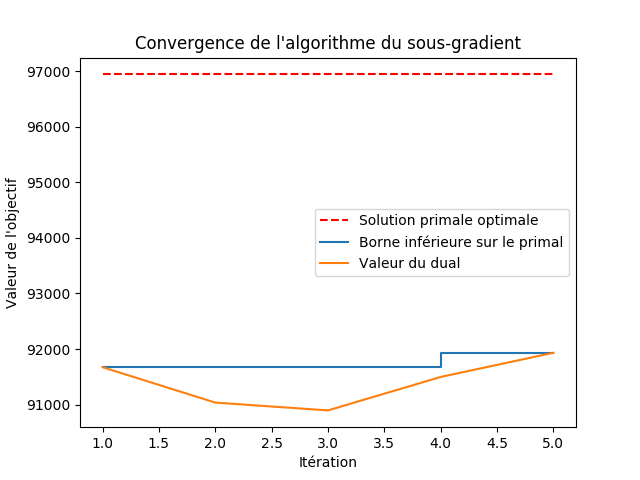
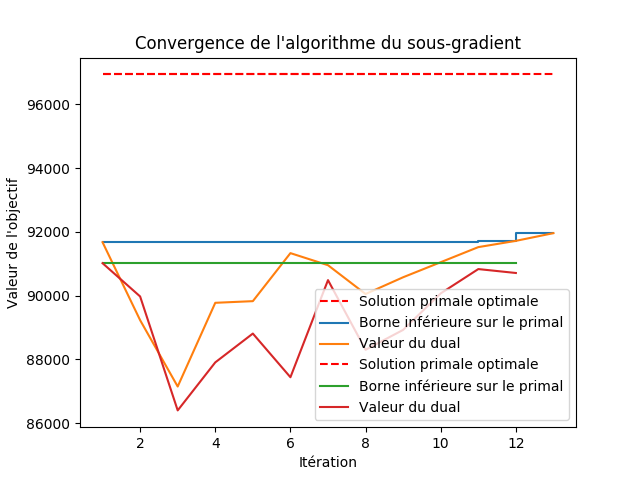
modifications sous-gradient

diff --git a/src/subgradient.py b/src/subgradient.py
@@ -31,7 +31,7 @@ def solve_subproblem(subproblem):
         assert(subproblem.status == pulp.constants.LpStatusOptimal)
 
 
-def solve_with_subgradient(instance, _lambda=0.01, _epsilon=0.1, _alpha0=2000.0, _rho=0.96, _nar=4):
+def solve_with_subgradient(instance, _lambda=0.01, _epsilon=0.01, _alpha0=5000.0, _rho=0.92, _nar=10):
     PI, Gs, K, S, C, P_plus = instance.get_attributes(["PI", "Gs", "K", "S", "C", "P_plus"])
     n_periods = instance.n_periods
     n_scenarios = instance.n_scenarios
@@ -78,6 +78,13 @@ def solve_with_subgradient(instance, _lambda=0.01, _epsilon=0.1, _alpha0=2000.0,
         z_k = z[Gs, :].get_var_values()[..., np.newaxis]
         
         if k > _nar:
+
+            betas = np.flip(1. / np.arange(1, len(primal_solutions)+1), 0)
+            betas /= betas.sum()
+            convex_comb = (betas * np.asarray(primal_solutions).T).sum(axis=1)
+
+            PP.set_var_values(convex_comb)
+
             evolve_and_fix(PP)
             n_violated, _ = PP.constraints_violated()
             if n_violated == 0:

diff --git a/src/main.py b/src/main.py
@@ -93,7 +93,7 @@ if __name__ == "__main__":
     
     folder = "../instances"
     for filename in os.listdir(folder):
-        if "inst-10-6-5-1" in filename:
+        if "inst-10-6-5" in filename:
             print(filename)
             with open("results.txt", "r") as f:
                 filenames = [line.split(",")[0] for line in f.readlines()]
